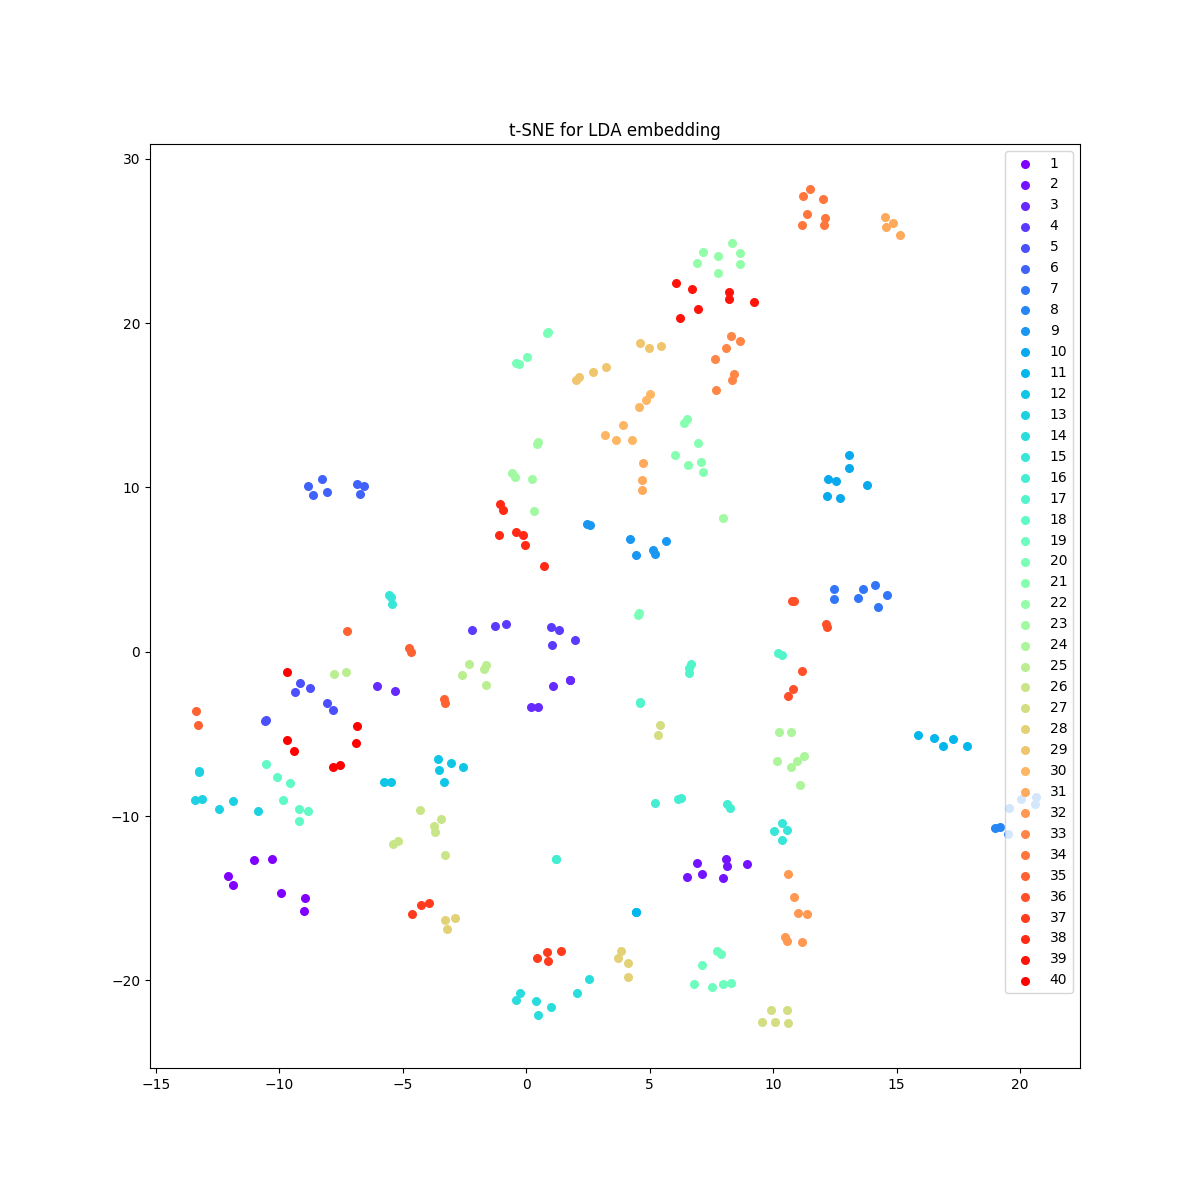
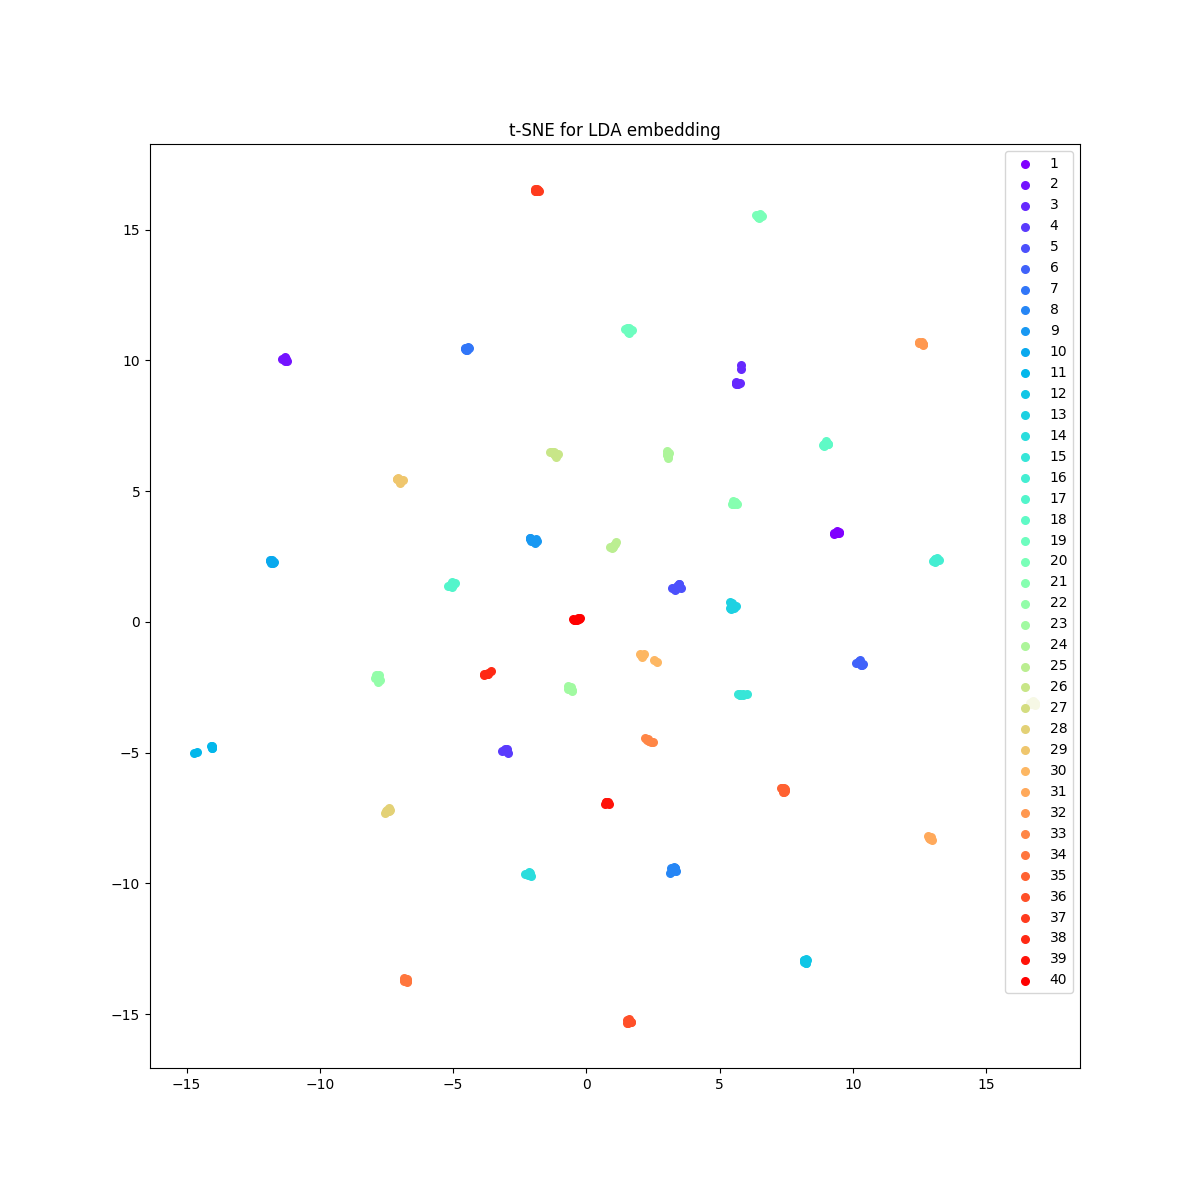
HW2 lda done

diff --git a/hw2/hw2-2_lda.py b/hw2/hw2-2_lda.py
@@ -1,7 +1,5 @@
 from sklearn.neighbors import KNeighborsClassifier
 from sklearn.model_selection import cross_val_score
-from sklearn.decomposition import PCA
-from sklearn.discriminant_analysis import LinearDiscriminantAnalysis
 from scipy.misc import imread, imsave
 from sklearn.manifold import TSNE
 from matplotlib import cm
@@ -46,15 +44,11 @@ def lda(embedded_images):
         s_b += sb_i
 
     inv_sw = np.linalg.inv(s_w)
-    matrix = np.multiply(inv_sw, s_b)
-    print(matrix.shape)
+    matrix = np.dot(inv_sw, s_b)
+    _, eigvector = np.linalg.eig(matrix)
+    eigvector = np.real(eigvector)
 
-    lda_mu = matrix.mean(axis=0)
-    lda_ma = matrix - lda_mu
-    u, s, v = np.linalg.svd(lda_ma.T, full_matrices=False)
-    weights = np.dot(lda_ma, u)
-
-    return u, weights, lda_mu, matrix
+    return eigvector[:, :39]
 
 
 def reconstruct(img_idx, u, weight, mu, n):
@@ -63,7 +57,7 @@ def reconstruct(img_idx, u, weight, mu, n):
 
 
 def tsne_visual(weight, label):
-    tsne = TSNE(n_components=2, random_state=30, verbose=1, n_iter=2500)
+    tsne = TSNE(n_components=2, random_state=10, verbose=1)
     embedded = tsne.fit_transform(weight)
 
     plt.figure(figsize=(12, 12))
@@ -103,45 +97,44 @@ def main(im_directory, output_testing_image):
 
     eigen, weights, mu = pca(train_images)
 
-    mean = train_images - mu
-    embed = np.dot(mean, eigen[:, :240])   # project onto (N-C) eigenvectors N = 280, C = 40
+    embed = train_images - mu
+    embed = np.dot(embed, eigen[:, :240])   # project onto (N-C) eigenvectors N = 280, C = 40
+    eigen_lda = lda(embed)
 
-    eigen_lda, weights_lda, mu_lda, matrix_lda = lda(embed)
+    # for i in range(5):
+    #    fisher = np.dot(eigen[:, :240], eigen_lda[:, i])
+    #    plot(fisher.reshape(im_shape), "result/fisherface_{}.png".format(i+1))
 
-    for i in range(5):
-        fisher = mu_lda + np.dot(weights_lda[:, i], eigen_lda[:, i].T)
-        inv = np.dot(fisher, eigen[:, :240].T) + mu
-        plot(inv.reshape(im_shape), "result/fisherface_{}.png".format(i+1))
+    fisher = np.dot(eigen[:, :240], eigen_lda[:, 0])
+    plot(fisher.reshape(im_shape), output_testing_image)
 
     # t-SNE visualize
     # mean = train_images - mu
-    # embed = np.dot(mean, eigen[:, :240])
-    # embed_mean = embed - mu_lda
-    # embed_lda = np.dot(embed_mean, eigen_lda[:, :30])
-    # tsne_visual(embed_lda, train_labels)
-
-    print("Reconstructed Image File:", output_testing_image)
-    recon = mu_lda + np.dot(weights_lda[:, 0], eigen_lda[:, 0].T)
-    inverse = np.dot(recon, eigen[:, :240].T) + mu
-    plot(inverse.reshape(im_shape), output_testing_image)
+    # train_embed = np.dot(mean, eigen[:, :240])
+    # train_embed_lda = np.dot(train_embed, eigen_lda[:, :30])
+    # tsne_visual(train_embed_lda, train_labels)
 
     # KNN result
     k_near = [1, 3, 5]
     dim = [3, 10, 39]
 
-    print("Cross Validation Score by KNN")
+    print("Cross Validation Score by k-NN")
     for k in k_near:
         for n in dim:
-            mean = test_images - mu
-            embed = np.dot(mean, eigen[:, :240])
-            embed_mean = embed - mu_lda
-            embed_lda = np.dot(embed_mean, eigen_lda[:, :n])
+            mean = train_images - mu
+            embedded = np.dot(mean, eigen[:, :240])
+            embedded_lda = np.dot(embedded, eigen_lda[:, :n])
             knn = KNeighborsClassifier(n_neighbors=k)
-            scores = cross_val_score(knn, embed_lda, test_labels, cv=3, scoring="accuracy")
+            knn.fit(embedded_lda, train_labels)
+            scores = cross_val_score(knn, embedded_lda, train_labels, cv=3, scoring="accuracy")
             print("K = {}, N = {}:\tcross validation acc = {:.3f} / {:.3f} / {:.3f}".format(
-                k, n, scores[0], scores[1], scores[2])
+                k, n, scores[0], scores[1], scores[2]), end=" "
             )
 
+            test_m = test_images - mu
+            test_em = np.dot(test_m, eigen[:, :240])
+            test_em_lda = np.dot(test_em, eigen_lda[:, :n])
+            print("Test score: {:.5f}".format(knn.score(test_em_lda, test_labels)))
 
 if __name__ == '__main__':
     directory = sys.argv[1]

diff --git a/hw2/hw2-2_pca.py b/hw2/hw2-2_pca.py
@@ -45,6 +45,9 @@ def tsne_visual(weight, label):
         c = next(colors)
         mask = label == lab
         plt.scatter(embedded[mask, 0], embedded[mask, 1], s=30, c=c, label=lab)
+    #for x, y, v in zip(embedded[:, 0], embedded[:, 1], label):
+    #    plt.text(x, y, v, fontsize=8)
+
     plt.legend(loc="best")
     plt.title('t-SNE for PCA embedding')
     plt.savefig("tsne_pca.png")
@@ -89,9 +92,9 @@ def main(im_directory, testing_image, output_testing_image):
         print("MSE with {:3} eigenfaces:\t{}".format(n, error))
 
     # t-SNE visualize
-    mean = train_images - mu
-    embed = np.dot(mean, eigen[:, :100])
-    tsne_visual(embed, train_labels)
+    # embed = test_images - mu
+    # embed = np.dot(embed, eigen[:, :100])
+    # tsne_visual(embed, test_labels)
 
     # reconstruct testing images
     print("Testing Image:", testing_image)
@@ -110,13 +113,18 @@ def main(im_directory, testing_image, output_testing_image):
     print("Cross Validation Score by KNN")
     for k in k_near:
         for n in dim:
-            mean = test_images - mu
+            mean = train_images - mu
             embed = np.dot(mean, eigen[:, :n])
             knn = KNeighborsClassifier(n_neighbors=k)
-            scores = cross_val_score(knn, embed, test_labels, cv=3, scoring="accuracy")
-            print("K = {}, N = {}:\tcross validation acc = {:.3f} / {:.3f} / {:.3f}".format(
-                k, n, scores[0], scores[1], scores[2])
+            knn.fit(embed, train_labels)
+            scores = cross_val_score(knn, embed, train_labels, cv=3, scoring="accuracy")
+            print("K = {}, N = {}:\tcross validation acc = {:.4f} / {:.4f} / {:.4f}".format(
+                k, n, scores[0], scores[1], scores[2]), end=" "
             )
+
+            test_m = test_images - mu
+            test_em = np.dot(test_m, eigen[:, :n])
+            print("Test score: {:.5f}".format(knn.score(test_em, test_labels)))
 
     print("Done!")
 
